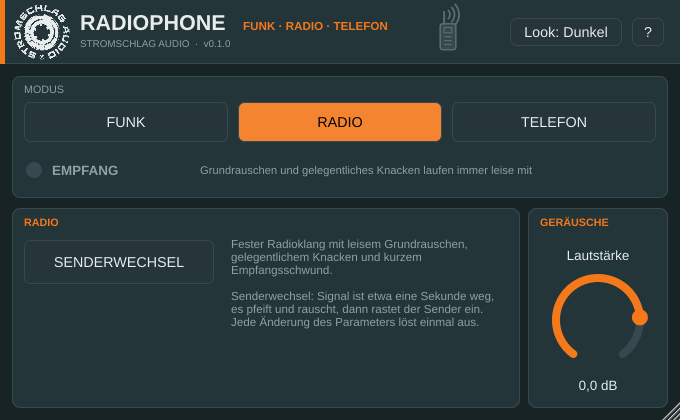
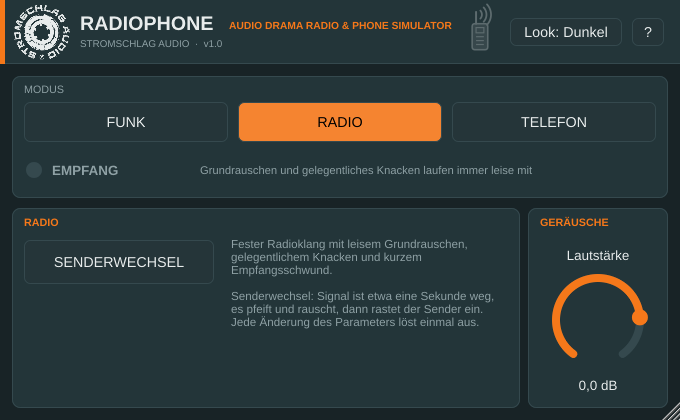
Version 1.0: Untertitel Audio Drama Radio & Phone Simulator, Screenshots aktualisiert
Claude-Session: https://claude.ai/code/session_01N8U6GBwNQpPEQCBGVH7E5D

Changed region(s): [[0.1235, 0.0, 0.7412, 0.1238]]

diff --git a/docs/index.html b/docs/index.html
@@ -51,14 +51,14 @@
       </g>
     </svg>
   </h1>
-  <p class="sub">Funk · Radio · Telefon für Hörspiele · Stromschlag Audio</p>
+  <p class="sub">Audio Drama Radio &amp; Phone Simulator · Stromschlag Audio</p>
 
   <p class="lead">Ein VST3-Insert-Effekt für Hörspielproduktionen. Er lässt eine Stimme oder Musik klingen, als käme sie
   aus einem Funkgerät, einem Radio oder einem Telefon, und bringt die Geräusche gleich mit: Tschk und Kschhh der
   Sprechtaste, Rauschen und Senderwechsel im Radio, Wählton, Wählscheibe und Freizeichen am Telefon.</p>
 
   <a class="btn" id="dl" href="https://github.com/StromschlagProductions/Radiophone-vst/releases/latest">⬇ Download (Windows, VST3)</a>
-  <div class="meta" id="ver">Aktuelle Version: <span id="vnum">0.1.0</span> · Installation: ZIP entpacken, den ganzen Ordner <code>Radiophone.vst3</code> nach <code>C:\Program Files\Common Files\VST3</code> kopieren.</div>
+  <div class="meta" id="ver">Aktuelle Version: <span id="vnum">1.0</span> · Installation: ZIP entpacken, den ganzen Ordner <code>Radiophone.vst3</code> nach <code>C:\Program Files\Common Files\VST3</code> kopieren.</div>
 
   <h2>Was es kann</h2>
   <ul>

diff --git a/Source/PluginEditor.cpp b/Source/PluginEditor.cpp
@@ -323,21 +323,21 @@ void RadiophoneEditor::paint (juce::Graphics& g)
         g.drawImage (logo, juce::Rectangle<float> (14.0f, 4.0f, 56.0f, 56.0f), juce::RectanglePlacement::centred, true);
     }
 
-    const juce::Font titleFont (juce::FontOptions (24.0f, juce::Font::bold));
-    const juce::Font subFont (juce::FontOptions (13.0f, juce::Font::bold));
+    const juce::Font titleFont (juce::FontOptions (22.0f, juce::Font::bold));
+    const juce::Font subFont (juce::FontOptions (11.5f, juce::Font::bold));
     auto textWidth = [] (const juce::Font& f, const juce::String& t)
     {
         juce::GlyphArrangement ga; ga.addLineOfText (f, t, 0.0f, 0.0f);
         return ga.getBoundingBox (0, -1, true).getWidth();
     };
-    const juce::String sub = u8 ("FUNK \xc2\xb7 RADIO \xc2\xb7 TELEFON");
-    const float subX = 80.0f + textWidth (titleFont, "RADIOPHONE") + 18.0f;
+    const juce::String sub = "AUDIO DRAMA RADIO & PHONE SIMULATOR";
+    const float subX = 80.0f + textWidth (titleFont, "RADIOPHONE") + 16.0f;
     g.setColour (theme.text);
     g.setFont (titleFont);
-    g.drawText ("RADIOPHONE", 80, 8, 200, 30, juce::Justification::centredLeft);
+    g.drawText ("RADIOPHONE", 80, 9, 200, 28, juce::Justification::centredLeft);
     g.setColour (theme.accent);
     g.setFont (subFont);
-    g.drawText (sub, (int) subX, 15, 260, 22, juce::Justification::centredLeft);
+    g.drawText (sub, (int) subX, 14, 340, 22, juce::Justification::centredLeft);
     g.setColour (theme.dim);
     g.setFont (juce::FontOptions (11.0f));
     g.drawText (u8 ("STROMSCHLAG AUDIO  \xc2\xb7  v" PLUGIN_VERSION_TEXT), 80, 36, 300, 16, juce::Justification::centredLeft);

diff --git a/README.md b/README.md
@@ -1,4 +1,4 @@
-# RADIOPHONE – Funk, Radio und Telefon für Hörspiele
+# RADIOPHONE – Audio Drama Radio & Phone Simulator
 
 <picture>
   <source media="(prefers-color-scheme: dark)" srcset="docs/logo-dunkel.png">
@@ -13,7 +13,7 @@ der Sprechtaste, Rauschen und Knacken im Radio, Wählton, Wählscheibe, Freizeic
 
 **Info-Seite:** https://stromschlagproductions.github.io/Radiophone-vst/
 
-**Status:** erste Testversion (0.1). Klang und Bedienung werden noch abgestimmt.
+**Status:** Version 1.0. Klang und Bedienung werden in der Praxis noch nachgeschärft.
 
 ## Warum es dieses Plugin gibt
 
@@ -106,6 +106,7 @@ gesteuert. Die Stimme ist nur bei **Gespräch** zu hören.
 Die Versionsnummer steht in der Datei `VERSION`, im Plugin-Kopf und im Namen der Release. Sie wird bei jeder
 Änderung hochgezählt.
 
+- **1.0** – Untertitel „Audio Drama Radio & Phone Simulator“, Versionsnummer auf 1.0 gesetzt (die 0.x-Versionen waren Testläufe).
 - **0.1.0** – Erste Testversion: Modi Funk (Walkie-Talkie, Autofunk, Tischfunk; Sprechtaste mit Automatik,
   Abhacken), Radio (Rauschen, Knacken, Schwund, Senderwechsel) und Telefon (Leitungszustände, Wählscheibe und
   Tasten, Hörergeräusche); Oberfläche im Stil von LOCATIONS mit Hilfe, Hell/Dunkel und skalierbarem Fenster.
